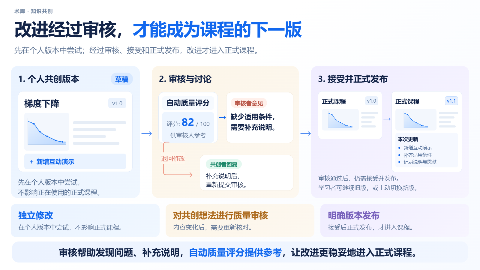
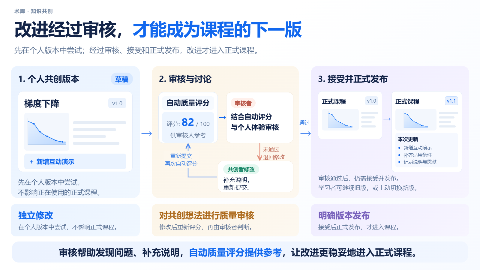
fix(creator-guide): close review feedback loop and align stage columns

diff --git a/modules/Creator-Guide/pages/ShukuIntroPages.tsx b/modules/Creator-Guide/pages/ShukuIntroPages.tsx
@@ -35,7 +35,8 @@ export function ShukuParticipationPage(){
   return <article className="cg-shuku-page cg-shuku-participation cg-creator-typography" aria-labelledby="cg-shuku-participation-title"><Heading id="cg-shuku-participation-title" title="从提出一个问题，到贡献一种更好的讲法，" accent="每个人都可以参与到课程的进化" subtitle="反馈也是参与；学习者、教师和创作者，可以在同一门课程中接力。"/><Connections/><section className="cg-shuku-person cg-shuku-learner tone-blue"><Typography as="h2" variant="h2" tone="inherit">学习者</Typography><Copy>“这一步不太直观，<br/>能再举个例子吗？”</Copy></section><section className="cg-shuku-person cg-shuku-teacher tone-teal"><Typography as="h2" variant="h2" tone="inherit">教师或专业人士</Typography><Copy>“我有一个真实案例，<br/>可以补充到这里。”</Copy></section><div className="cg-shuku-participation-course"><CourseCard/></div><section className="cg-shuku-person cg-shuku-creator tone-violet"><Typography as="h2" variant="h2" tone="inherit">课程创作者</Typography><Copy>“我来补充一个<br/>更清楚的互动演示。”</Copy></section><ol className="cg-shuku-participation-path">{steps.map(([title,description],i)=><li key={title}><span>{i+1}</span><div><Typography as="h3" variant="h3" tone="inherit">{title}</Typography><Copy>{description}</Copy></div>{i<steps.length-1&&<b aria-hidden="true">→</b>}</li>)}</ol><Conclusion icon>学习中的发现，可以成为<em>共同改进课程的起点。</em></Conclusion></article>;
 }
 export function ShukuReviewPage(){
-  return <article className="cg-shuku-page cg-shuku-review cg-creator-typography" aria-labelledby="cg-shuku-review-title"><Heading id="cg-shuku-review-title" title="改进经过审核，" accent="才能成为课程的下一版" subtitle="先在个人版本中尝试；经过审核、接受和正式发布，改进才进入正式课程。"/><div className="cg-shuku-review-panels"><section className="cg-shuku-review-panel tone-blue"><Typography as="h2" variant="h2" tone="inherit">1. 个人共创版本</Typography><span className="cg-shuku-draft">草稿</span><CourseCard compact note="＋ 新增互动演示"/><Copy className="cg-shuku-panel-caption">先在个人版本中尝试，<br/>不影响正在使用的正式课程。</Copy></section><span className="cg-shuku-stage-arrow" aria-hidden="true">→</span><section className="cg-shuku-review-panel cg-shuku-discussion tone-amber"><Typography as="h2" variant="h2" tone="inherit">2. 审核与讨论</Typography><section className="cg-shuku-auto-score" aria-label="自动质量评分示例"><Typography as="h3" variant="h3" tone="inherit">自动质量评分</Typography><div className="cg-shuku-score-result"><span>评分: <strong>82</strong> / 100</span><Copy>供审核人参考</Copy></div></section><span className="cg-shuku-score-arrow" aria-hidden="true">→</span><div className="cg-shuku-review-comment"><span>审核者意见</span><Copy>缺少适用条件，<br/>需要补充说明。</Copy></div><div className="cg-shuku-return" aria-hidden="true"><svg viewBox="0 0 160 170"><path d="M35 12H21Q9 12 9 25v123q0 12 12 12h118m-10-10 10 10-10 10" fill="none" stroke="currentColor" strokeWidth="3" strokeLinecap="round" strokeLinejoin="round"/></svg><Copy>退回修改</Copy></div><div className="cg-shuku-author-comment"><span>共创者回复</span><Copy>补充说明后，<br/>重新提交审核。</Copy></div></section><span className="cg-shuku-stage-arrow" aria-hidden="true">→</span><section className="cg-shuku-review-panel cg-shuku-publication tone-violet"><Typography as="h2" variant="h2" tone="inherit">3. 接受并正式发布</Typography><div className="cg-shuku-version-comparison"><CourseCard mini/><span aria-hidden="true">→</span><CourseCard mini version="v1.1" updated/></div><Copy className="cg-shuku-panel-caption">审核通过后，仍需接受并发布。<br/>学习者可继续旧版，或主动切换新版。</Copy></section></div><div className="cg-shuku-principles">{[['独立修改','在个人版本中尝试，不影响正式课程。','blue'],['对共创想法进行质量审核','内容变化后，需要重新核对。','amber'],['明确版本发布','接受后正式发布，才进入课程。','violet']].map(([title,description,tone])=><section key={title} className={'tone-'+tone}><Typography as="h2" variant="h2" tone="inherit">{title}</Typography><Copy>{description}</Copy></section>)}</div><Conclusion>审核帮助发现问题、补充说明，<em>自动质量评分提供参考</em>，让改进更稳妥地进入正式课程。</Conclusion></article>;
+  const loopMarker=useId().replaceAll(':','');
+  return <article className="cg-shuku-page cg-shuku-review cg-creator-typography" aria-labelledby="cg-shuku-review-title"><Heading id="cg-shuku-review-title" title="改进经过审核，" accent="才能成为课程的下一版" subtitle="先在个人版本中尝试；经过审核、接受和正式发布，改进才进入正式课程。"/><div className="cg-shuku-review-panels"><section className="cg-shuku-review-panel tone-blue"><Typography as="h2" variant="h2" tone="inherit">1. 个人共创版本</Typography><span className="cg-shuku-draft">草稿</span><CourseCard compact note="＋ 新增互动演示"/><Copy className="cg-shuku-panel-caption">先在个人版本中尝试，<br/>不影响正在使用的正式课程。</Copy></section><span className="cg-shuku-stage-arrow" aria-hidden="true">→</span><section className="cg-shuku-review-panel cg-shuku-discussion tone-amber"><Typography as="h2" variant="h2" tone="inherit">2. 审核与讨论</Typography><section className="cg-shuku-auto-score" aria-label="自动质量评分示例"><Typography as="h3" variant="h3" tone="inherit">自动质量评分</Typography><div className="cg-shuku-score-result"><span>评分: <strong>82</strong> / 100</span><Copy>供审核人参考</Copy></div></section><span className="cg-shuku-score-arrow" aria-hidden="true">→</span><div className="cg-shuku-review-comment"><span>审核者</span><Copy>结合自动评分<br/>与个人体验审核</Copy></div><svg className="cg-shuku-review-loop" viewBox="0 0 490 440" role="img" aria-label="审核未通过退回修改，重新提交后再次自动评分"><defs><marker id={loopMarker+'reject'} markerWidth="8" markerHeight="8" refX="7" refY="4" orient="auto"><path d="M1 1L7 4L1 7" fill="none" stroke="#e28b77" strokeWidth="1.5"/></marker><marker id={loopMarker+'rescore'} markerWidth="8" markerHeight="8" refX="7" refY="4" orient="auto"><path d="M1 1L7 4L1 7" fill="none" stroke="#528df2" strokeWidth="1.5"/></marker></defs><path className="cg-shuku-reject-path" d="M360 257V313" fill="none" stroke="#e28b77" strokeWidth="2.5" markerEnd={'url(#'+loopMarker+'reject)'}/><path className="cg-shuku-rescore-path" d="M218 370H121V260" fill="none" stroke="#528df2" strokeWidth="2.5" markerEnd={'url(#'+loopMarker+'rescore)'}/></svg><span className="cg-shuku-reject-label">未通过<br/>退回修改</span><span className="cg-shuku-rescore-label">重新提交<br/>再次自动评分</span><div className="cg-shuku-author-comment"><span>共创者修改</span><Copy>补充说明，<br/>重新提交。</Copy></div></section><span className="cg-shuku-stage-arrow cg-shuku-approved-arrow"><span>通过</span><span aria-hidden="true">→</span></span><section className="cg-shuku-review-panel cg-shuku-publication tone-violet"><Typography as="h2" variant="h2" tone="inherit">3. 接受并正式发布</Typography><div className="cg-shuku-version-comparison"><CourseCard mini/><span aria-hidden="true">→</span><CourseCard mini version="v1.1" updated/></div><Copy className="cg-shuku-panel-caption">审核通过后，仍需接受并发布。<br/>学习者可继续旧版，或主动切换新版。</Copy></section></div><div className="cg-shuku-principles">{[['独立修改','在个人版本中尝试，不影响正式课程。','blue'],['对共创想法进行质量审核','修改后重新评分，再由审核者判断。','amber'],['明确版本发布','接受后正式发布，才进入课程。','violet']].map(([title,description,tone])=><section key={title} className={'tone-'+tone}><Typography as="h2" variant="h2" tone="inherit">{title}</Typography><Copy>{description}</Copy></section>)}</div><Conclusion>审核帮助发现问题、补充说明，<em>自动质量评分提供参考</em>，让改进更稳妥地进入正式课程。</Conclusion></article>;
 }
 export function ShukuGrowthPage(){
   const [version,setVersion]=useState(2),marker=useId().replaceAll(':','');

diff --git a/modules/Creator-Guide/pages/ShukuIntroPages.css b/modules/Creator-Guide/pages/ShukuIntroPages.css
@@ -26,3 +26,17 @@
 .cg-shuku-discussion .cg-shuku-return>.ui-typography{top:43px}
 .cg-shuku-discussion .cg-shuku-author-comment{left:160px;top:296px;right:18px}
 .cg-shuku-review>.cg-shuku-conclusion>.ui-typography{--ui-type-body-size:31px;font-size:31px;white-space:nowrap}
+
+/* Rejection returns to the contributor, and resubmission re-enters automatic scoring. */
+.cg-shuku-review-loop{position:absolute;inset:0;width:490px;height:440px;pointer-events:none}
+.cg-shuku-reject-label,.cg-shuku-rescore-label{position:absolute;font-size:18px;line-height:1.45;background:#fdf7ed;padding:2px 5px}
+.cg-shuku-reject-label{left:366px;top:262px;width:114px;color:#bd6955}
+.cg-shuku-rescore-label{left:39px;top:284px;color:#397ee5;text-align:center}
+.cg-shuku-discussion .cg-shuku-author-comment{left:220px;top:316px;right:18px;height:105px;padding:11px 17px}
+.cg-shuku-discussion .cg-shuku-author-comment>span{font-size:18px;margin-bottom:5px}
+.cg-shuku-discussion .cg-shuku-author-comment .ui-typography--body{--ui-type-body-size:20px;font-size:20px;line-height:1.3}
+.cg-shuku-approved-arrow{position:relative}.cg-shuku-approved-arrow>span:first-child{position:absolute;top:-19px;left:0;width:40px;white-space:nowrap;font-size:18px;line-height:1.4;color:#397ee5}
+
+/* Each principle aligns with the stage directly above it, including arrow gutters. */
+.cg-shuku-review .cg-shuku-principles{grid-template-columns:430px 490px minmax(0,1fr);gap:40px}
+.cg-shuku-review .cg-shuku-principles .ui-typography--body{--ui-type-body-size:20px;font-size:20px}
